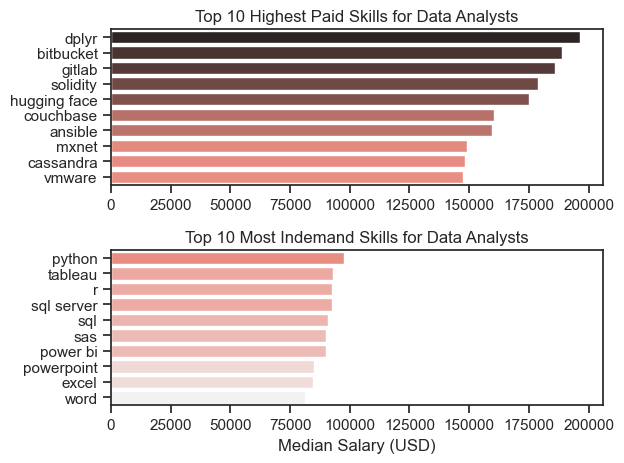
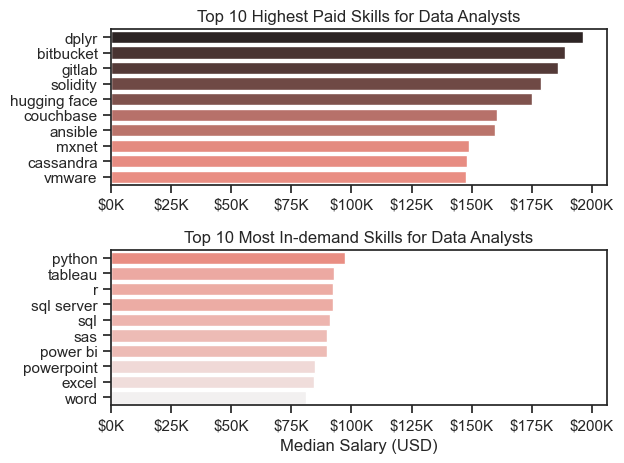
Updating readme and graphs

diff --git a/README.md b/README.md
@@ -1,40 +1,40 @@
 # Introduction
-### Hi! Welcome to my analysis of the 2023 data job market, mostly focusing on the specific role of data analyst. The goal of this project is to better navigate the job market by examining in-demand skills, top-paying opportunities and projecting career paths to uncover the best opportunities for data analysts.
+Hi! Welcome to my analysis of the 2023 data job market, mostly focusing on the specific role of data analyst. The goal of this project is to better navigate the job market by examining in-demand skills, top-paying opportunities and projecting career paths to uncover the best opportunities for data analysts.
 
-### This is my first ever Python project as I'm learning how to program with Python. It allows me to walk through all the fundamentals and apply them while exploring real-world data analysis tasks. 
+This is my first ever Python project as I'm learning how to program with Python. It allows me to walk through all the fundamentals and apply them while exploring real-world data analysis tasks. 
 
-### The data source is from [Luke Barousse's Lesson](https://www.lukebarousse.com/python), which sets the foundation for my analysis by providing detailed information on job titles, salaries, locations, essential skills, and even posted time. By using Python scripts, I investigate key questions, including the most demanded skills, salary trends, and how demand and salary interact within the data analytics field.
+The data source is from [Python Lesson by Luke Barousse](https://www.lukebarousse.com/python), which sets the foundation for my analysis by providing detailed information on job titles, salaries, locations, essential skills, and even posted time. By using Python scripts, I investigate key questions, including the most demanded skills, salary trends, and how demand and salary interact within the data analytics field.
 
 # Questions
 ## Here are some questions I have and want to answer while going through this dataset:
-### 1. What are the must-have skills for the top 3 trending data roles?
-### 2. How are the top skills trending for Data Analyst?
-### 3. How well do jobs and skills pay Data Analyst?
-### 4. What is the most optimal skill to learn for Data Analyst?
-### 5. What is the projected career path and salary for a Data Analyst?
+ 1. What are the must-have skills for the top 3 trending data roles?
+ 2. How are the top skills trending for Data Analyst?
+ 3. How well do jobs and skills pay Data Analyst?
+ 4. What is the most optimal skill to learn for Data Analyst?
+ 5. What is the projected career path and salary for a Data Analyst?
 
 
 # Tools I Learned and Used in this Project
 ## In order to dig deeper into this dataset, it is necessary to first develop the ability to wield these essential skills.
 
-### 1. Python: The core of my analysis, enabling me to process the data and uncover key insights.
-- #### Pandas Library: Used for data manipulation and analysis.
+#### 1. Python: The core of my analysis, enabling me to process the data and uncover key insights.
+-  Pandas Library: Used for data manipulation and analysis.
 
-- #### Matplotlib Library: Helped me create visualizations of the data.
+-  Matplotlib Library: Helped me create visualizations of the data.
 
-- #### Seaborn Library: Helped me create more advanced visualizations of the data.
+-  Seaborn Library: Helped me create more advanced visualizations of the data.
 
-### 2. Jupyter Notebooks: The platform I used for running Python scripts, making it easy to integrate notes and track my analysis.
+#### 2. Jupyter Notebooks: The platform I used for running Python scripts, making it easy to integrate notes and track my analysis.
 
-### 3. Visual Studio Code:My go-to code editor for writing and running Python scripts.
+#### 3. Visual Studio Code:My go-to code editor for writing and running Python scripts.
 
-### 4. Git & GitHub: Essential tools for version control, sharing my work, and collaborating on projects.
+#### 4. Git & GitHub: Essential tools for version control, sharing my work, and collaborating on projects.
 
 # Data Setup and Cleanup
 
 ## To ensure all analyses are consistently accurate, the following section outlines the code setup for the analysis:
 
-## 1. Import All Necessary Libraries
+#### 1. Import All Necessary Libraries
 ```python
 import pandas as pd
 import ast
@@ -43,20 +43,20 @@ import matplotlib.pyplot as plt
 import seaborn as sns
 ```
 
-## 2. Dataset and Data Loading with Date-Time Handling
+#### 2. Dataset and Data Loading with Date-Time Handling
 ```python
 from datetime import datetime
 from datasets import load_dataset
 dataset = load_dataset('lukebarousse/data_jobs')
 df = dataset['train'].to_pandas()
 ```
-## 3. Data Cleanup
+#### 3. Data Cleanup
 ```python
 df['job_posted_date'] = pd.to_datetime(df['job_posted_date'])
 df['job_skills'] = df['job_skills'].apply(lambda date: ast.literal_eval(date) if pd.notna(date) else date)
 ```
 
-## 4. Filter US Jobs
+#### 4. Filter US Jobs
 ```python
 df_us = df[df['job_country'] == 'United States']
 ```
@@ -67,10 +67,10 @@ df_us = df[df['job_country'] == 'United States']
 ## 1. What are the key skills for the top 3 trending data roles?
 
 ### Thought Process 
-Aiming for the top 3 most popular data roles, I filtered the positions based on the popularity degree in the market, and got the top 5 skills for these top 3 roles.
+To identify the top 3 most popular data roles, I filtered positions based on market demand, and then selected the top 5 skills associated with these roles. 
+This query emphasizes the most popular job titles and their key skills, helping me identify which skills to focus on based on the role I'm aiming for.
 
- 
-Click here to View my notebook with detailed steps:
+Detailed steps click here to view:
 [2_Skill_Demand.ipynb](3_Project/2_Skill_Demand.ipynb)
 
 ### Visualizing Data
@@ -84,20 +84,32 @@ for i, title in enumerate(job_titles):
     ax[i].set_ylabel('')
     ax[i].legend().set_visible(False)
     
-fig.suptitle('Count of Top Skills in Top trending Roles', fontsize=15)
+fig.suptitle('Count of Top Skills in Top 3 trending Roles', fontsize=15)
 fig.tight_layout()
 plt.show()
 ```
 ### Results
 
+
 ![Visualization of Top Skills for Top Data Roles](3_Project/Images/skill_demand_top3_data_roles.png)
 
-**
+*Bar Graph Visualizes the salary for the top 3 data roles with each of their top 5 correlated skills in percentage*
 
 ### Takeaways
+- SQL is the most requested skill for 2 of the 3 roles, the second most requested for the third role, and is requested as an essential skill in over 50% of the job postings for all three roles (Analyst: 51%, Engineer: 68%, Scientist: 51%), making it the most demanded skill among the three roles.
+- Python is also dominating as an essential programming skill, ranking as the top programming skill for all three roles with different functions. Over 60% of job postings for Data Engineers (65%) and Data Scientists (72%) require this skill, while it is the 4th most requested skill for Data Analysts."
+- Although all three roles require a combination of data programming (Python) and management (SQL) skills, Data Engineers also requires more specialized skills (including AWS, Azure, Spark)
 
 ## 2. How are the top skills trending for Data Analysts in the US?
 
+### Thought Process 
+To identify the top trending skills for Data Analysts in 2023, I filtered data analysts roles by the month of the job posting.
+This query provides the top 5 skills that are trending through 2023.
+
+Detailed steps click here to view:
+[3_Skills_Trend.ipynb](3_Project/3_Skills_Trend.ipynb)
+
+### Visualizing Data
 ```python
 from matplotlib.ticker import PercentFormatter
 ax = plt.gca()
@@ -124,10 +136,20 @@ for i in range(5):
 *Line graph visualizes the trending top skills for data analysts in the US in 2023.*
 
 ### Takeaways
+- SQL, as a data management skill, continues to define Data Analyst roles, trending in over 50% of job postings across three quarters and maintaining its prominence by ranking as the top skill for Data Analysts throughout 2023.
+- Excel is still a highly demanded skill due to its widespread accessibility and versatility.
+- Python and Tableau are showing stable demand throughout the year, Although Sas is showing similar trend, its demand is lower than Python and Tableau by 5 to 10 %, or even more throughout the year.
 
-## 3. How Well do jobs and salary pay for Data Analysis?
 
-#### Visualize Data
+## 3. How Well do jobs and salary pay for Data Analysts?
+
+### Thought Process 
+First, to spot the highest-paying roles, I analyzed the median salaries for positions like Data Analyst, Data Engineer, and Data Scientist, and identify which role has the highest pay.
+
+Detailed steps click here to view:
+[4_Salary_Analysis.ipynb](3_Project/4_Salary_Analysis.ipynb)
+
+### Visualize Data
 
 ```python
 sns.barplot(data=df_da_top_pay, x='median', y=df_da_top_pay.index, ax=ax[0], hue='median', palette='dark:salmon_r')
@@ -138,17 +160,20 @@ plt.show()
 
 ```
 
-#### Results
+### Results
 
 ![Salary Distributions for Data Jobs in the US](3_Project/Images/top_6_roles_salary_scatter.png)
 *Box Plot visualizes the distributions of salary for the top 6 data job titles*
 
 ### Takeaways
+- Senior Data Scientists have the highest salary among all three senior roles, including the outliers.
+- The annual salary range for Data Engineers and Data Scientists is higher than that of Senior Data Analysts, suggesting that the skills required for Engineers and Scientists could be more technical.
+- Data Scientists not only have the broadest IQR but also the most extreme outliers (~600k).
 
 ## Analyzing Top-Paying Skills & Most Demanded Skills
+Second, I focused on Data Analyst roles and examined the highest-paid skills, as well as the most in-demand skills, showcasing them with two separate bar charts.
 
-
-#### Visualize Data
+### Visualize Data
 
 ```python
 sns.boxplot(data=df_us_top6, x='salary_year_avg', y='job_title_short', order = job_order_list)
@@ -167,8 +192,18 @@ plt.show()
 *Box Plot visualizes the distributions of salary for the top paid skills and top demanded skills*
 
 ### Takeaways
+- The top bar shows that specialized technical skills, such as dplyr, Bitbucket, and Gitlab, are correlated with higher salaries, with some reaching up to $200K. This suggests that advanced technical skills can enhance salary potential.
+- The bottom bar illustrates that Python is the highest-paying skill among the top 10 most in-demand skills, making it the most valuable skill for Data Analysts.
+- Microsoft skills, such as PowerPoint, Excel, and Word, appear at the bottom of the list, suggesting that while these skills are widespread, their value is diminished for Data Analysts.
+- There’s a clear difference between the highest-paying skills and the most in-demand ones. To boost career potential, Data Analysts should aim to build a diverse skill set that includes both high-paying specialized skills and widely recognized foundational skills.
 
 ## 4. What is the most Optimal skill to learn for Data Analyst?
+
+### Thought Process 
+To pinpoint the best skills for Data Analysts (those that are both the highest paid and most in demand), I calculated the demand percentage and median salary for each skill, making it easier to identify the most valuable skills to learn.
+
+Detailed steps click here to view:
+[5_Optimal_Skills.ipynb](3_Project/5_Optimal_Skills.ipynb)
 
 #### Visualize Data
 
@@ -192,3 +227,44 @@ plt.show()
 *Scatter Plot visualizes the most optimal skills for data analysts in the US*
 
 ### Takeaways
+Skill Analysis:
+- `Python` offers a higher average salary (~98K) but is requested in only about 30% of Data Analyst job postings, indicating that while it can lead to better pay, it’s not as frequently required.
+- On the contrary, `SQL` has a slightly lower average salary (~91K) but dominates the demand, appearing in nearly 60% of Data Analyst job postings, emphasizing its critical role in securing a position in the field.
+- Although the salary for `Oracle` is only slightly lower than Python, job postings request it in only approximately 5% of cases, highlighting the fact that specialized technical skills are highly valued for Data Analysts.
+
+Technology Analysis
+- The scatter plot reveals that most programming skills (in blue) cluster around the higher salary range, suggesting that programming can lead to better pay for Data Analysts.
+- Analyst tools (in green), such as Tableau and Power BI, are commonly listed in job postings and come with competitive salaries. These tools are essential for today’s data roles, offering both versatility and value across a range of data-related tasks.
+
+## 5. What is the projected career path and salary for a Data Analyst?
+
+### Thought Process 
+
+
+Detailed steps click here to view:
+[6_Data Analyst_career_path_Analysis.ipynb](3_Project/6_Data Analyst_career_path_Analysis.ipynb)
+
+#### Visualize Data
+
+```python
+
+
+```
+
+#### Results
+
+![]()
+
+**
+
+### Takeaways
+
+
+
+# What I learned
+
+# Challenges I Encountered
+
+# General Insights
+
+# Conclusions
